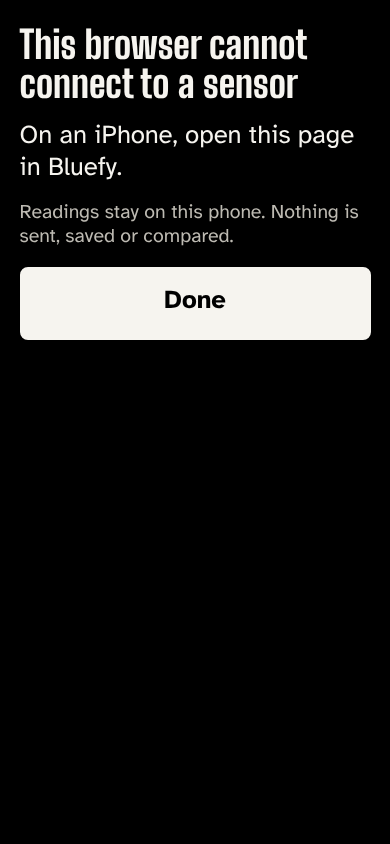
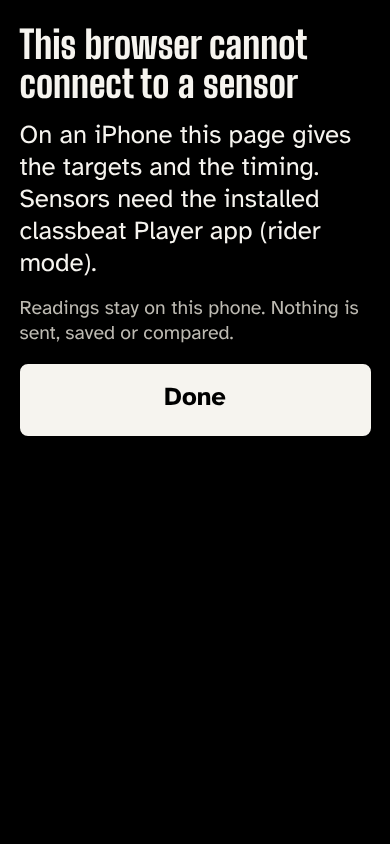
docs(design): drop Bluefy from the sensors spec, iPhone points to the installed app
Closes #685

Claude-Session: https://claude.ai/code/session_01LLHBh3xazuKpSV1STS2mcZ

Changed region(s): [[0.0308, 0.154, 0.9538, 0.4005], [0.0308, 0.4313, 0.9538, 0.5237]]

diff --git a/docs/design/mockups/sensors-unsupported-iphone.html b/docs/design/mockups/sensors-unsupported-iphone.html
@@ -10,7 +10,7 @@
 <link rel="stylesheet" href="sensors.css">
 </head>
 <body>
-<!-- State: an iPhone or iPad without Web Bluetooth. The same sheet names Bluefy, the browser that has it.  Spec: docs/design/sensors.md. Generated by sensors-pages.js: edit that, not this file. -->
-<main class="page form"><div class="lead"><h1><span data-tier="value" data-lines="2">This browser cannot connect to a sensor</span></h1><p><span data-tier="minor" data-lines="6">On an iPhone, open this page in Bluefy.</span></p><p class="small"><span data-tier="label" data-lines="6">Readings stay on this phone. Nothing is sent, saved or compared.</span></p></div><div class="act"><div class="duo solo"><button class="key main" data-action="done"><span class="kl" data-tier="minor" data-lines="2">Done</span></button></div></div></main>
+<!-- State: an iPhone or iPad without Web Bluetooth. The same sheet says the page gives the targets and the timing, and that sensors need the installed classbeat Player app (rider mode).  Spec: docs/design/sensors.md. Generated by sensors-pages.js: edit that, not this file. -->
+<main class="page form"><div class="lead"><h1><span data-tier="value" data-lines="2">This browser cannot connect to a sensor</span></h1><p><span data-tier="minor" data-lines="6">On an iPhone this page gives the targets and the timing. Sensors need the installed classbeat Player app (rider mode).</span></p><p class="small"><span data-tier="label" data-lines="6">Readings stay on this phone. Nothing is sent, saved or compared.</span></p></div><div class="act"><div class="duo solo"><button class="key main" data-action="done"><span class="kl" data-tier="minor" data-lines="2">Done</span></button></div></div></main>
 </body>
 </html>

diff --git a/docs/design/mockups/sensors-pages.js b/docs/design/mockups/sensors-pages.js
@@ -98,8 +98,8 @@ add('unsupported', 'Rider: no Web Bluetooth', 'State: the browser has no Web Blu
   page(h1('This browser cannot connect to a sensor') + p('Open this page in Chrome on an Android phone.') + SHEET_NOTE,
     `<div class="duo solo">${key('done', 'Done', { main: true })}</div>`, 'form'));
 
-add('unsupported-iphone', 'Rider: no Web Bluetooth, iPhone', 'State: an iPhone or iPad without Web Bluetooth. The same sheet names Bluefy, the browser that has it.',
-  page(h1('This browser cannot connect to a sensor') + p('On an iPhone, open this page in Bluefy.') + SHEET_NOTE,
+add('unsupported-iphone', 'Rider: no Web Bluetooth, iPhone', 'State: an iPhone or iPad without Web Bluetooth. The same sheet says the page gives the targets and the timing, and that sensors need the installed classbeat Player app (rider mode).',
+  page(h1('This browser cannot connect to a sensor') + p('On an iPhone this page gives the targets and the timing. Sensors need the installed classbeat Player app (rider mode).') + SHEET_NOTE,
     `<div class="duo solo">${key('done', 'Done', { main: true })}</div>`, 'form'));
 
 // ---------- Worst case ----------

diff --git a/docs/design/sensors.md b/docs/design/sensors.md
@@ -169,7 +169,7 @@ and 640 × 360 too. The state names are the `SensorSource`'s (ADR 0012 section 3
 | Sensors sheet | **Sensors** pressed | The devices, **Connect another sensor**, **Done**; "Readings stay on this phone. Nothing is sent, saved or compared." | [html](mockups/sensors-sheet.html), [portrait](mockups/sensors-sheet-390x844.png) |
 | Sheet, one lost | As above, one device lost | The dashed marker and "lost"; its row's key is **Reconnect** | [html](mockups/sensors-sheet-lost.html), [portrait](mockups/sensors-sheet-lost-390x844.png) |
 | No Web Bluetooth | `unsupported` (Safari, Firefox, most desktop browsers) | **Connect a sensor** opens a sheet: "This browser cannot connect to a sensor." and "Open this page in Chrome on an Android phone." | [html](mockups/sensors-unsupported.html), [portrait](mockups/sensors-unsupported-390x844.png) |
-| No Web Bluetooth, iPhone | `unsupported` on an iPhone or iPad | The same sheet: "On an iPhone, open this page in Bluefy." (plan section 7) | [html](mockups/sensors-unsupported-iphone.html), [portrait](mockups/sensors-unsupported-iphone-390x844.png) |
+| No Web Bluetooth, iPhone | `unsupported` on an iPhone or iPad | The same sheet: "On an iPhone this page gives the targets and the timing. Sensors need the installed classbeat Player app (rider mode)." (plan section 7) | [html](mockups/sensors-unsupported-iphone.html), [portrait](mockups/sensors-unsupported-iphone-390x844.png) |
 | Worst case | The longest content | Four-digit power, three-digit plan, the 80-character zone name, 58:58, three 80-character next names; and a sheet with a 32-character device name and three devices | [html](mockups/sensors-worst.html), [portrait](mockups/sensors-worst-390x844.png), [sheet](mockups/sensors-worst-sheet-390x844.png) |
 
 A sensor state **never uses the top line** (it carries the connection plates of rider.md: "Waiting
